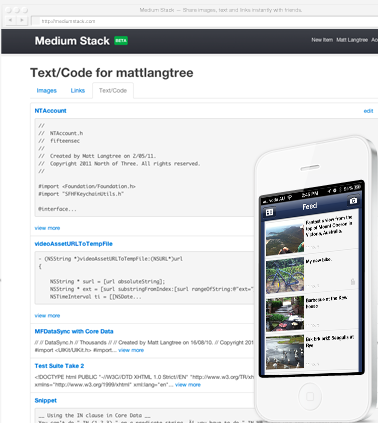
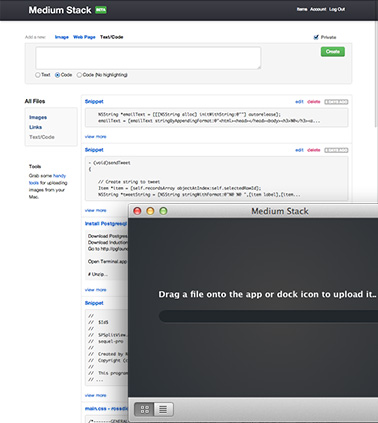
Add Mac app. Add teaser for new app.

diff --git a/main.css b/main.css
@@ -263,3 +263,15 @@ footer {
 	font-style: italic;
 }
 
+.secret-app {
+	background: transparent url(secret-app.jpg) no-repeat 30px 0px;
+	width: 750px;
+	height: 120px;
+	border-top: 6px solid black;
+}
+.secret-app p {
+	padding-top: 10px;
+	padding-left: 320px;
+	font-family: Georgia, serif;
+	line-height: 1.8em;
+}

diff --git a/index.php b/index.php
@@ -8,6 +8,8 @@
 	<link rel="icon" type="image/png" href="/favicon.png">
 	<link href="/main.css?1" media="screen" rel="stylesheet" type="text/css" />
 
+	<script type="text/javascript" src="//use.typekit.net/stw0coy.js"></script>
+	<script type="text/javascript">try{Typekit.load();}catch(e){}</script>
 	
 </head>
 <body>
@@ -21,7 +23,10 @@
 			<heading class="subheading">
 				<p>We make software for developers.</p>
 			</heading>
-            
+
+			<div class="secret-app">
+				<p><strong>COMING SOON</strong> <br />Developer Utility for iPhone and iPad.</p>
+            </div>            
             <section class="box left">
                 
                 <h3>&nbsp;</h3>
@@ -42,7 +47,7 @@
 
                     <article class="working-on medium-stack">
                         <span class="image-wrapper">
-							<span class="image-tag">WEB + IPHONE*</span>
+							<span class="image-tag">WEB + MAC</span>
 							<img src="medium-stack-devices.png" alt="Screenshot of Medium Stack"></span>
                         
                         <h2>Medium Stack</h2>
@@ -90,8 +95,7 @@
 					
 		<div class="clr"></div>
         <footer>
-			<small>iPhone app currently being reviewed by Apple. Will be available shortly.</small>
-            <br />&copy; 2011 &mdash; North of Three
+            <br />&copy; 2012 &mdash; North of Three
         </footer>
 	</div>
 </div>
